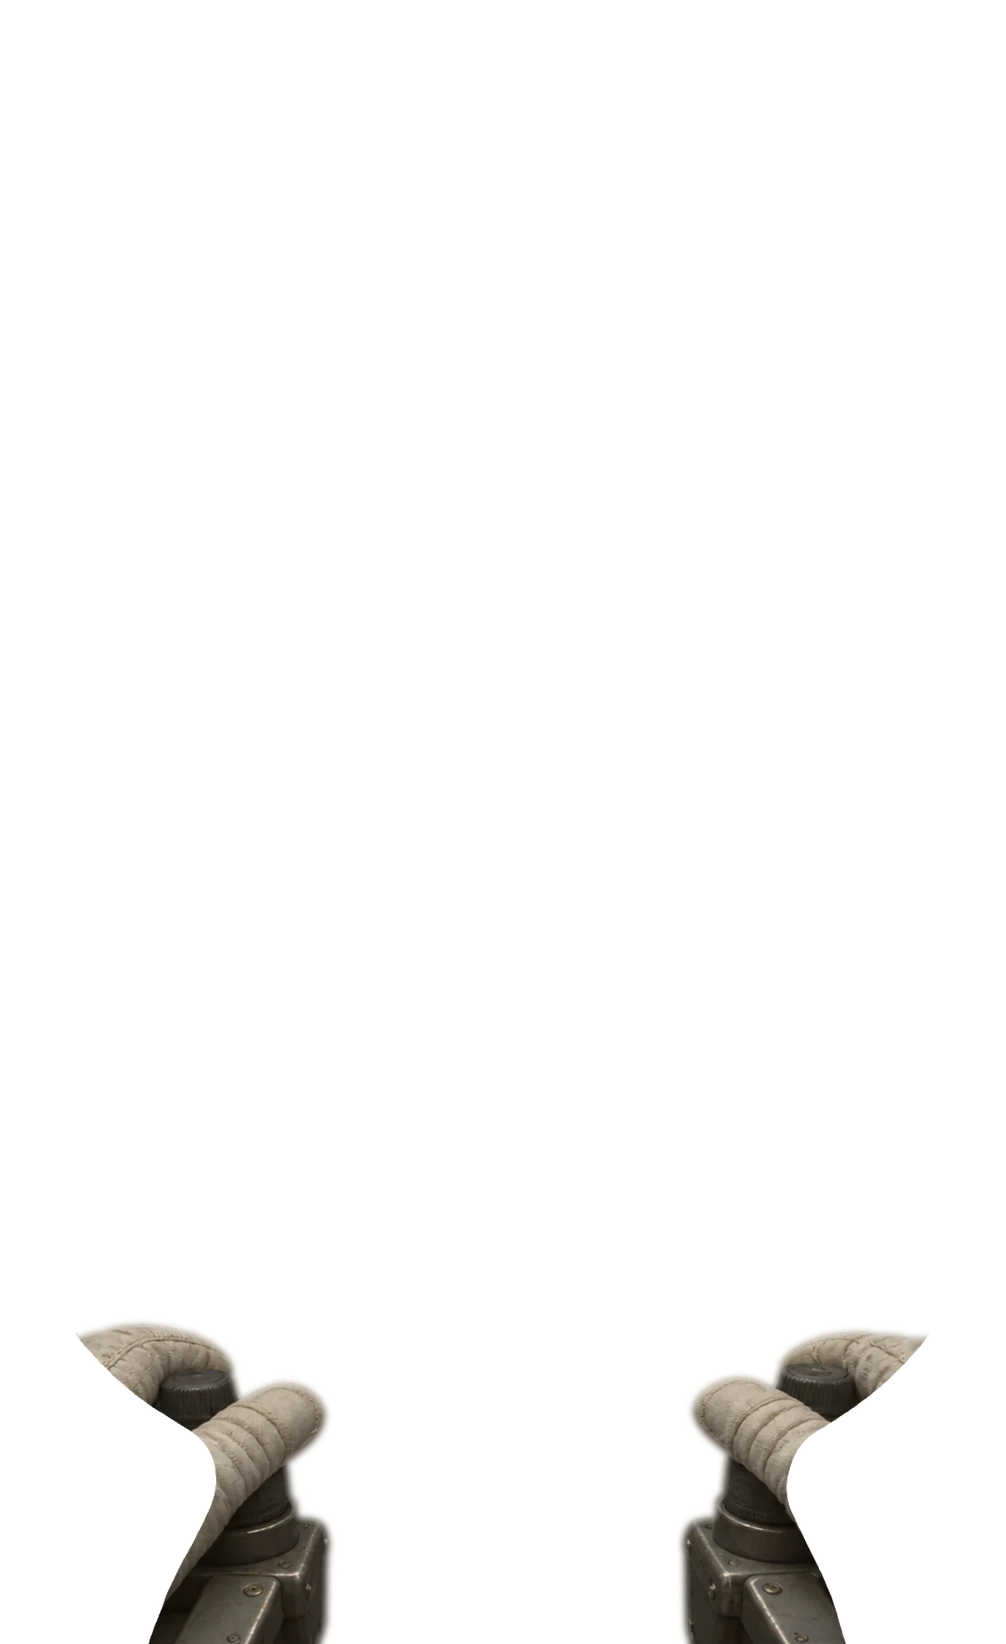
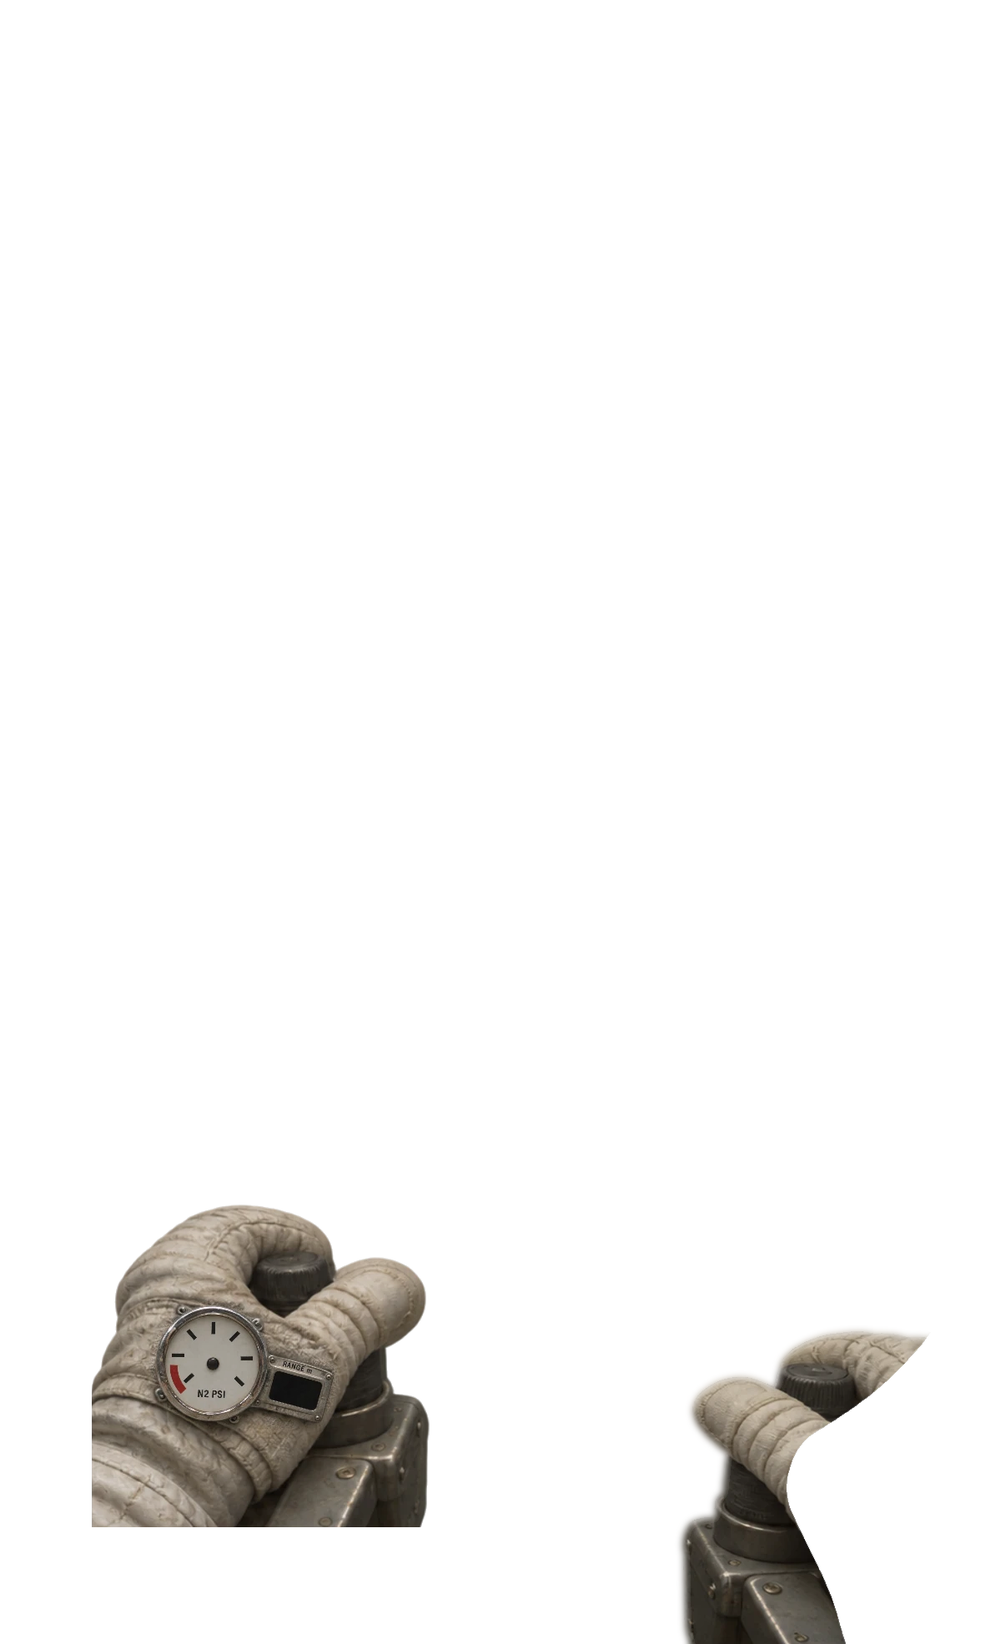
v1.0.33: McCandless's jets fire once for each press (a 0.45 s hiss, one buzz, one shake; 3.5% of the nitrogen), and his nitrogen and range show on a pressure dial and counter strapped on his left glove, drawn into the hands picture, the game turning the needle and the figures (the user: "기관총 소리 난다. 

Changed region(s): [[0.0614, 0.7118, 0.4295, 1.0]]

diff --git a/src/main.js b/src/main.js
@@ -2507,7 +2507,7 @@ ${STORY_MORE[target.id]}` : told) };
       glare.hidden = o <= 0.001;
     }
     if (!course) mmuFlyReset();
-    mmuFlyUi(inHelmet);
+    mmuFlyUi(inHelmet, dt);
   }
   // Columbia coming to dock with Eagle, seen from Eagle's window (rail.dock: from, at the
   // moment they touch, to, its distance far and near in km and its drawn length; the user,
@@ -2554,14 +2554,14 @@ ${STORY_MORE[target.id]}` : told) };
   const MMU_KM_PER_M = 2.8; // the course's km for one true metre: "about 100 m" stands at 280 km
   const MMU_FAR_M = 150;
   const MMU_NEAR_M = 30;
-  const MMU_ACCEL = 6; // km/s gained in each second of a push
+  const MMU_BURST = 5; // km/s gained with each burst (some 2 m/s)
+  const MMU_BURST_FUEL = 0.035; // of full tanks, each burst (28 in all)
   const MMU_TOP = 24; // km/s at most (some 9 m/s)
-  const MMU_FUEL_S = 30; // seconds of pushing in full tanks
   const MMU_SHOOT_S = 2; // the line on its way
   const MMU_PULL_S = 10; // and reeling him in
-  const mmuFly = { on: false, onT: 0, rel: null, vel: [0, 0, 0], fuel: 1, line: null, keys: 0, puffAt: 0, jetAt: 0, thrust: 0, grip: 0, shake: 0, warned: 1 };
+  const mmuFly = { on: false, onT: 0, rel: null, vel: [0, 0, 0], fuel: 1, line: null, keys: 0, puffAt: 0, held: 0, thrust: 0, grip: 0, shake: 0, warned: 1, needle: 1 };
   function mmuFlyReset() {
-    Object.assign(mmuFly, { on: false, rel: null, vel: [0, 0, 0], fuel: 1, line: null, keys: 0, thrust: 0, shake: 0, warned: 1 });
+    Object.assign(mmuFly, { on: false, rel: null, vel: [0, 0, 0], fuel: 1, line: null, keys: 0, held: 0, thrust: 0, shake: 0, warned: 1 });
   }
   function mmuNote(text) {
     let note = document.getElementById('mmuNote');
@@ -2579,7 +2579,11 @@ ${STORY_MORE[target.id]}` : told) };
     if (!cupolaOn) return;
     const hub = here('hubble').position;
     const push = mmuFly.line ? 0 : Math.max(-1, Math.min(1, key + mmuFly.keys));
-    const thrust = mmuFly.fuel > 0 ? push : 0;
+    // One burst for each press (the user, 2026-11-20: "계속 누르고 있으니까, 기관총 소리 난다. 한 번에
+    // 한 번씩만 가동"): the jets fire as a key goes down and not again till it is let go.
+    const pressed = Math.sign(push);
+    const thrust = mmuFly.fuel > 0 && pressed && pressed !== mmuFly.held ? pressed : 0;
+    mmuFly.held = pressed;
     if (!mmuFly.on && thrust) {
       mmuFly.on = true;
       mmuFly.onT = courseTime;
@@ -2588,27 +2592,22 @@ ${STORY_MORE[target.id]}` : told) };
     }
     if (!mmuFly.on) return;
     if (thrust) {
-      // The way he looks, the head's turn in it (cupolaFloat); the head stays turned while he pushes.
+      // The way he looks, the head's turn in it (cupolaFloat).
       const ahead = forward(state.orientation);
-      mmuFly.vel = mmuFly.vel.map((v, i) => v + ahead[i] * thrust * MMU_ACCEL * dt);
+      mmuFly.vel = mmuFly.vel.map((v, i) => v + ahead[i] * thrust * MMU_BURST);
       const speed = Math.hypot(...mmuFly.vel);
       if (speed > MMU_TOP) mmuFly.vel = mmuFly.vel.map((v) => (v * MMU_TOP) / speed);
-      mmuFly.fuel = Math.max(0, mmuFly.fuel - (Math.abs(thrust) * dt) / MMU_FUEL_S);
+      mmuFly.fuel = Math.max(0, mmuFly.fuel - MMU_BURST_FUEL);
       headTurn.at = performance.now();
-      const now = performance.now();
-      if (now - mmuFly.jetAt > 140) {
-        mmuFly.jetAt = now;
-        sound.cue(thrust > 0 ? 'jet' : 'jetBack');
-        // (A phone that can, buzzes with each burst; iPhone browsers cannot.)
-        try { navigator.vibrate?.(22); } catch { /* no buzzing here */ }
-      }
-      if (now - mmuFly.puffAt > 380) {
-        mmuFly.puffAt = now;
-        mmuPuff(thrust > 0 ? 'back' : 'front');
-      }
-    } else if (mmuFly.thrust) sound.cue('jetEnd');
-    mmuFly.thrust = thrust;
-    mmuFly.shake = thrust ? 1 : Math.max(0, mmuFly.shake - dt * 5);
+      sound.cue(thrust > 0 ? 'jet' : 'jetBack');
+      // (A phone that can, buzzes with the burst; iPhone browsers cannot.)
+      try { navigator.vibrate?.(45); } catch { /* no buzzing here */ }
+      mmuPuff(thrust > 0 ? 'back' : 'front');
+      mmuFly.shake = 1;
+    }
+    // The gloves press the handle while the key is held; the view shakes with the burst and settles.
+    mmuFly.thrust = mmuFly.line ? 0 : pressed;
+    mmuFly.shake = Math.max(0, mmuFly.shake - dt * 2.4);
     // Low on nitrogen: three beeps at a quarter, and again at a tenth.
     for (const mark of [0.25, 0.1]) {
       if (mmuFly.fuel < mark && mmuFly.warned > mark) { mmuFly.warned = mark; sound.cue('lowFuel'); }
@@ -2682,8 +2681,10 @@ ${STORY_MORE[target.id]}` : told) };
   }
   // The jets' two keys, the gauge on the inside of his left wrist (nitrogen and how far
   // Challenger is), and the line from her bay.
-  const WRIST = { x: 165, y: 1505, w: 270, h: 124, turn: -24 }; // in the hands picture's pixels
-  function mmuFlyUi(inHelmet) {
+  // On the left glove of the hands picture (its pixels, from GPT's check7.json).
+  const DIAL = { x: 255, y: 1635, r: 57 };
+  const COUNTER = { x: 354.5, y: 1667.5, turn: 15, size: 30 };
+  function mmuFlyUi(inHelmet, dt) {
     const show = inHelmet && Boolean(course && courseById(course)?.rail?.mmu);
     let keys = document.getElementById('mmuKeys');
     if (show && !keys) {
@@ -2703,11 +2704,15 @@ ${STORY_MORE[target.id]}` : told) };
     }
     if (keys) keys.hidden = !show;
     if (!show) mmuFly.keys = 0;
-    // The gauge rides with the hands (the same layer and drift).
+    // The gauge rides with the hands (the same layer and drift). It is drawn on the glove
+    // itself (the hands picture, GPT's order 7: a pressure dial strapped on and a counter
+    // beside it; the user's pick "나", "좋 더 진짜스럽게", "위치 안 맞는다"); the game
+    // turns its needle with the nitrogen left (empty at the lower left, in the red; full
+    // at the lower right) and turns the counter's figures to the metres from Challenger.
     const hands = document.getElementById('spacewalkHands');
     let wrist = document.getElementById('mmuWrist');
     if (show && hands && !wrist) {
-      hands.insertAdjacentHTML('afterend', '<div id="mmuWrist" aria-hidden="true" style="position:fixed;inset:0;z-index:5;pointer-events:none"><div class="cuff" style="position:absolute;box-sizing:border-box;border-radius:8%/16%;background:linear-gradient(#262b31,#14181c);border:2px solid #474d55;box-shadow:0 2px 6px rgba(0,0,0,.6);padding:6% 7%;color:#8ff0a4;font-family:ui-monospace,Menlo,Consolas,monospace;font-weight:700"><div class="row" style="display:flex;align-items:center;gap:6%"><span>N₂</span><div style="flex:1;height:0.62em;border:1px solid #5d6670;border-radius:2px;padding:1px"><div class="bar" style="height:100%;background:#8ff0a4"></div></div></div><div class="read" style="margin-top:4%;white-space:nowrap"></div></div></div>');
+      hands.insertAdjacentHTML('afterend', `<div id="mmuWrist" aria-hidden="true" style="position:fixed;inset:0;z-index:5;pointer-events:none"><svg style="position:absolute;overflow:visible"><g class="needle"><path d="M${DIAL.x} ${DIAL.y + 9} L${DIAL.x} ${DIAL.y - DIAL.r * 0.78}" stroke="#141414" stroke-width="4.5" stroke-linecap="round"/><path d="M${DIAL.x} ${DIAL.y - DIAL.r * 0.55} L${DIAL.x} ${DIAL.y - DIAL.r * 0.78}" stroke="#b3202a" stroke-width="4.5" stroke-linecap="round"/></g><circle cx="${DIAL.x}" cy="${DIAL.y}" r="6" fill="#1c1c1c"/><circle cx="${DIAL.x - 1.5}" cy="${DIAL.y - 1.5}" r="2" fill="#8c8c8c"/><text class="range" x="${COUNTER.x}" y="${COUNTER.y}" transform="rotate(${COUNTER.turn} ${COUNTER.x} ${COUNTER.y})" text-anchor="middle" dominant-baseline="central" fill="#efe9da" font-family="'Courier New',monospace" font-weight="700" font-size="${COUNTER.size}" letter-spacing="2"></text></svg></div>`);
       wrist = document.getElementById('mmuWrist');
     }
     if (wrist) {
@@ -2717,23 +2722,21 @@ ${STORY_MORE[target.id]}` : told) };
         const nw = hands.naturalWidth || 1206, nh = hands.naturalHeight || 1971;
         const s0 = Math.max(innerWidth / nw, innerHeight / nh);
         const ox = (innerWidth - nw * s0) * 0.5, oy = (innerHeight - nh * s0) * 0.45;
-        const cuff = wrist.firstElementChild;
-        Object.assign(cuff.style, {
-          left: `${(ox + (WRIST.x - WRIST.w / 2) * s0).toFixed(1)}px`, top: `${(oy + (WRIST.y - WRIST.h / 2) * s0).toFixed(1)}px`,
-          width: `${(WRIST.w * s0).toFixed(1)}px`, height: `${(WRIST.h * s0).toFixed(1)}px`,
-          fontSize: `${Math.max(9, 40 * s0).toFixed(1)}px`, transform: `rotate(${WRIST.turn}deg)`,
-        });
-        const low = mmuFly.fuel < 0.25;
-        const bar = cuff.querySelector('.bar');
-        bar.style.width = `${(mmuFly.fuel * 100).toFixed(1)}%`;
-        bar.style.background = low ? '#ff9a6a' : '#8ff0a4';
-        cuff.style.color = low ? '#ffb38a' : '#8ff0a4';
+        const svgEl = wrist.firstElementChild;
+        if (svgEl.dataset.size !== `${nw}x${nh}x${s0}`) {
+          svgEl.dataset.size = `${nw}x${nh}x${s0}`;
+          svgEl.setAttribute('viewBox', `0 0 ${nw} ${nh}`);
+          Object.assign(svgEl.style, { left: `${ox.toFixed(1)}px`, top: `${oy.toFixed(1)}px`, width: `${(nw * s0).toFixed(1)}px`, height: `${(nh * s0).toFixed(1)}px` });
+        }
+        // The needle eases toward the nitrogen left, as a real one would, a little behind.
+        mmuFly.needle += (mmuFly.fuel - mmuFly.needle) * Math.min(1, dt * 6);
+        const angle = -135 + 270 * mmuFly.needle;
+        svgEl.querySelector('.needle').setAttribute('transform', `rotate(${angle.toFixed(1)} ${DIAL.x} ${DIAL.y})`);
         const hub = here('hubble').position;
-        const metres = Math.round(Math.hypot(...state.position.map((n, i) => n - hub[i])) / MMU_KM_PER_M);
-        const text = `${Math.round(mmuFly.fuel * 100)}% · ${metres}m`;
-        const read = cuff.querySelector('.read');
-        if (read.textContent !== text) read.textContent = text;
-        cuff.style.opacity = low && mmuFly.fuel > 0 ? (0.65 + 0.35 * Math.abs(Math.sin(performance.now() / 260))).toFixed(2) : '1';
+        const metres = Math.min(999, Math.round(Math.hypot(...state.position.map((n, i) => n - hub[i])) / MMU_KM_PER_M));
+        const text = String(metres).padStart(3, '0');
+        const range = svgEl.querySelector('.range');
+        if (range.textContent !== text) range.textContent = text;
       }
     }
     // The line, drawn as a rope (the user, 2026-11-20: "줄을 좀 리얼하게 그리고"): braided,

diff --git a/src/ui/sound.js b/src/ui/sound.js
@@ -481,18 +481,17 @@ export function createSound({ music } = {}) {
       bell(659, 0.9, 0.05);
       bell(988, 1.08, 0.05);
     },
-    // McCandless's jets while a key is held (main.js mmuFly, the user, 2026-11-20: "내가 누를
-    // 때에 칙칙하면서 소리도 나고"): a short burst of hiss every 0.14 s with a soft knock
-    // under it, lower for a push ahead, higher for one back; and a sigh when it is let go.
+    // McCandless's jets, one burst for each press (main.js mmuFly, the user, 2026-11-20:
+    // "칙칙하면서 소리도 나고", then "한 번에 한 번씩만"): a soft knock and a hiss of nitrogen
+    // falling away over 0.45 s, lower for a push ahead, higher for one back.
     jet: () => {
-      noise({ length: 0.13, volume: 0.045, type: 'bandpass', freq: 2300, to: 1700, attack: 0.008 });
-      tone({ freq: 90, to: 60, length: 0.07, volume: 0.02 });
+      noise({ length: 0.45, volume: 0.05, type: 'bandpass', freq: 2300, to: 1200, attack: 0.015 });
+      tone({ freq: 90, to: 55, length: 0.12, volume: 0.028 });
     },
     jetBack: () => {
-      noise({ length: 0.13, volume: 0.04, type: 'bandpass', freq: 3300, to: 2500, attack: 0.008 });
-      tone({ freq: 110, to: 75, length: 0.07, volume: 0.018 });
+      noise({ length: 0.45, volume: 0.045, type: 'bandpass', freq: 3300, to: 1800, attack: 0.015 });
+      tone({ freq: 110, to: 70, length: 0.12, volume: 0.025 });
     },
-    jetEnd: () => noise({ length: 0.5, volume: 0.03, type: 'bandpass', freq: 2600, to: 900, attack: 0.02 }),
     // Challenger's line: shot out with a rising swish, the hook catching with a clack, and
     // the winch humming for the ten seconds he is reeled in.
     lineShoot: () => {

diff --git a/src/core/changes.js b/src/core/changes.js
@@ -11,6 +11,7 @@ import { t } from './i18n.js';
 // carry a `link`, an address written after it that can be pressed (the user, 2026-10-14,
 // of the promo video's line: "쇼츠 주소는? 링크도 올려야지").
 export const CHANGES = [
+  { day: '2026-11-20', text: t('줄 하나 없이 우주 유영에서 추진기는 한 번 누르면 한 번 뿜고, 왼쪽 장갑에 찬 압력계와 거리판으로 질소와 거리를 봅니다.') },
   { day: '2026-11-20', text: t('줄 하나 없이 우주 유영에서 추진기를 뿜으면 소리와 떨림이 나고, 직접 날기 시작하면 시간 제한이 없어집니다.') },
   { day: '2026-11-20', text: t('줄 하나 없이 우주 유영에서 직접 날 수 있습니다. 150m를 넘거나 질소가 떨어지면 챌린저가 줄로 끌어당깁니다.') },
   { day: '2026-11-20', text: t('아폴로 11호의 길에서 사령선 컬럼비아가 이글에 다가와 도킹하는 모습을 봅니다.') },

diff --git a/docs/Space-Oddity-상세기획서.md b/docs/Space-Oddity-상세기획서.md
@@ -662,6 +662,7 @@ v0.1.37, 눈으로 보지 못했던 것을 다시 찍어 보고 고친 것(`.pla
 - 2026-11-02에 우주멍 화면 왼쪽 위에 제목 로고를 작게(92px 폭) 넣었다(v0.4.61). 사용자 말: "우주멍 모드에서는 화면 상단 왼쪽에 조그맣게 로고 넣어줘".
 - 2026-11-18에 우주멍 시계, 잠들기 타이머, 배경화면 저장을 넣었다(v1.0.8). 우주멍 시계는 설정에서 켜며, 우주멍 동안 화면 위쪽에 시각과 날짜를 띄우고 화면 꺼짐을 막는다(Wake Lock). 시계는 1분마다 12픽셀 안에서 자리를 옮긴다. 잠들기는 배경 음악 칸의 단추로 15, 30, 60분을 고르며, 시간이 되면 음악과 화면이 60초에 걸쳐 잦아들고 어두워진다(검은 막 92%). 화면을 만지면 돌아온다. 배경화면은 사진 모드의 단추로, 보통 사진이 화면의 1.6배까지만 그리는 것과 달리 기기 해상도(3배까지, 한 변 4096픽셀까지)로 한 장을 그린다. "시계 자리 보기"는 잠금화면 시계가 덮는 자리를 점선으로 보인다. 시계 글씨는 세 모양(가는 글씨, 할머니 손글씨, 별빛)을 나란히 보인 뒤 사용자가 고른 할머니 수첩 손글씨(크림색)다. 코드는 GPT(Codex)가 짰고 번역과 검토는 Claude가 했다. 사용자 말: "5,6,7 해보자", "코딩은 gpt 시켜도 되지?", "나".
 - 2026-11-18에 우주멍 시계를 화면 왼쪽 위, 제목 바로 아래로 옮기고 시각과 날짜 줄을 각각 제목 폭(92픽셀)에 맞춰 글씨 크기를 정하게 했다. 우주멍 동안 우주멍 단추 옆에 배경 음악 켜기/끄기 단추를 둔다(v1.0.9). 사용자 말: "시간과 날짜를 왼쪽 상단, 제목 바로 아래로 옮기고, 폰트도 적당히 줄여서 폭을 맞춰", "우주멍에서는 배경음악 ON/OFF 버튼을 우주멍 버튼 옆에 그려줘". 날짜는 줄임 꼴로 쓴다: "11월 18일 (수)", "Wed, Nov 18", "11月18日(水)", "11月18日周三"(v1.0.10, 사용자 말: "줄임말로 쓰지").
+- 2026-11-20에 매캔들리스 코스의 추진기를 한 번 누르면 한 번만 뿜게 했다(v1.0.33). 누르고 있어도 다시 뿜지 않으며, 한 번에 5km/s(실제 약 2m/s)만큼 빨라지고 질소 3.5%를 쓴다(가득 차면 28번). 소리는 0.45초짜리 "치익" 한 번(앞으로는 낮게, 뒤로는 높게), 진동과 화면 떨림도 한 번씩이며 떨림은 0.4초에 잦아든다. 장갑은 누르는 동안 손잡이를 쥔다. 손목 게이지는 GPT에게 다시 그려 받은 왼쪽 장갑 그림에 붙어 있다(assets/codex/mmu/order7.md, 사용자가 고른 나안: 크롬 테두리의 바늘 압력계 "N2 PSI"와 "RANGE m" 숫자판을 장갑에 끈으로 찬 모습). 게임은 바늘(질소 0%는 왼쪽 아래 빨간 구역, 100%는 오른쪽 아래, 실제 바늘처럼 조금 늦게 따라감)과 숫자판의 세 자리 거리만 그린다. 전에는 화면에 녹색 글자판이 떠 있어 손목에 찬 것처럼 보이지 않았다. 사용자 말: "업다운 버튼 계속 누르고 있으니까, 기관총 소리 난다. 한 번에 한 번씩만 가동", "좀 더 진짜스럽게", "위치 안 맞는다", "나.", "만들어".
 - 2026-11-20에 매캔들리스 코스의 직접 날기에 손맛을 넣었다(v1.0.32). 단추를 누르는 동안 0.14초마다 "칙" 소리(앞으로는 낮게, 뒤로는 높게, 아래에 작은 쿵)가 이어지고 떼면 "치익" 잦아든다. 화면과 헬멧 테두리가 잘게 떨리고, 진동이 되는 휴대전화(안드로이드)는 떤다(아이폰 사파리는 진동 기능이 없다). 장갑은 앞으로 밀 때 손잡이 쪽으로 7픽셀 눌리고 뒤로 당길 때 올라오며 1.8% 커진다. 처음 뿜은 뒤로는 몸이 저절로 돌고 기울던 것, 9초마다 저절로 뿜던 것, 헬멧 테두리의 흔들림이 1.5초에 걸쳐 멈춘다. 줄은 꼰 밧줄로 그린다: 챌린저 쪽은 가늘고 그 쪽은 굵으며(1.2 → 8픽셀), 날아올 때는 출렁이며 휘고 끝에 갈고리가 달리며, 걸린 뒤에는 팽팽히 펴져 끌려온다. 소리: 줄 쏘기 "쉬익", 걸림 "철컥", 감는 동안 10초의 낮은 "위잉", 질소 25%와 10%에서 짧은 경고음 셋(미리 듣기 파일 assets/playtest/mmu-sounds-preview.wav, 가장 큰 소리 0.06). 단추는 다른 우주멍 단추처럼 금빛 선 화살표로 바꾸고 자막과 겹치지 않게 올렸다. 처음 뿜은 뒤로는 340초가 지나도 처음 장면으로 돌아가지 않는다. 사용자 말: "내가 누를 때에 칙칙하면서 소리도 나고, 진동도 느껴지고, 손가락도 움직이고 해야지", "한 번이라도 전/후 버튼 누르면, 그때부터는 핸드폰이 혼자서 움직이는건 stop", "줄을 좀 리얼하게 그리고", "소리도 좀", "앞으로 / 뒤로 아이콘 좀 예쁘게", "가,로 하고", "유저가 수동으로 움직이기 시작하면, 그 시간부턴 시간 제한 없애줘", "개발 시작해".
 - 2026-11-20에 두 가지를 넣었다(v1.0.31). (1) "줄 하나 없이 우주 유영"을 헬멧 안에서 직접 난다. 0초부터 왼쪽의 "앞으로" "뒤로" 단추(컴퓨터는 W/S)를 누르는 동안 보는 쪽으로 질소를 뿜고(화면을 끌어 고개를 돌린 채 누르면 그쪽으로), 한 번 밀면 계속 미끄러진다(초당 6km/s씩, 최고 24km/s, 게임 속 2.8km가 실제 1m). 질소는 계속 뿜으면 30초 만에 바닥나며, 왼쪽 장갑 위 손목의 게이지가 질소 막대와 "% · 챌린저까지 m"를 보인다(25% 아래는 주황빛으로 깜박임). 150m를 넘거나 질소가 떨어지면 챌린저가 빛나는 줄을 쏘아(2초) 30m까지 끌어당기고(10초) 질소를 다시 채운다. 12m 안으로는 들어가지 않는다(닿아 멈춤). 한 번도 뿜지 않으면 코스는 전처럼 흐른다. 헬멧 안에서는 이동 키가 코스를 끝내지 않는다. 실제 1984년에는 줄을 쏘는 장치가 없었고 챌린저가 그를 데리러 가도록 준비되어 있었다고 사용자에게 말했으나, 사용자는 줄을 골랐다. (2) "아폴로 11호의 길" 724 → 748초에, 이글의 세모난 창으로 사령선 컬럼비아가 다가와 도킹한다. 컬럼비아는 3D 모형이다(`src/render/columbia3d.js`, 코드로 그림: 원뿔 사령선과 창, 도킹 탐침, 기계선과 방열판, UNITED STATES, 추진기 네 묶음, 엔진, 고이득 안테나). 600km에서 15km(게임 속)까지 천천히 다가오며 코를 창 쪽으로 돌리고, 746초에 게임의 도킹 소리와 살짝 흔들림, 728초에 자막 "컬럼비아가 다가옵니다. 콜린스가 혼자 달을 돌며 기다리고 있었습니다." 모형은 craft.js 의 setFloatModel 로 아무 자리에나 놓고, 챌린저와 그림자 지도를 함께 쓴다. 코드 약 13KB. 챌린저 오른쪽 날개의 "NASA / Challenger" 글씨도 몸통 쪽으로 0.6m 옮겼다. 사용자 말: "지금 상태에서 우주 유영을 자기가 컨트롤 할 수 있게 해보자. 너무 멀어지거나, 연료를 다 쓰면, 챌린저에서 줄을 발사해서 끌어당기는걸로 하고. 그럼 손목 안 쪽에 연료 게이지 보여주고", "코스 안 조종", "챌린저가 로프를 쏴서 끌어당기기", "150m", "아폴로 귀환 시에 사령선이 도킹하는걸 게임에 넣는건 어때", "(가)로 해", "글자를 왼쪽으로 살짝 밀어", "다 개발해".
 - 2026-11-20에 매캔들리스 코스의 헬멧 테두리 그림에서 네 귀퉁이의 베이지색 천을 짙은 회색으로 바꿨다(v1.0.30). 밝고 채도가 낮은 화소만 골라 밝기의 0.32배로 낮추고, 창 둘레 60픽셀 안의 금빛 테두리는 건드리지 않아 천의 주름과 바늘땀이 남는다. 아래쪽만 바꾼 안과 견주어 사용자가 네 귀퉁이 모두를 골랐다. 우주멍 아래 줄의 소리와 음악 단추 자리도 맞바꿔, 이제 달 바로 옆이 음악, 그 옆이 소리다. 사용자 말: "이 부분을 짙은회색으로 해", "소리 / 음악 아이콘 위치 바꿔", "오른쪽으로 만들어".

diff --git a/바뀐-것들.md b/바뀐-것들.md
@@ -2,12 +2,13 @@
 
 게임 설정의 "바뀐 것들" 쪽과 같은 내용이다. 플레이어가 화면에서 보거나 듣는 변화만 한 줄씩 적는다.
 
-만들기 시작한 날은 2026년 9월 30일이고, 지금까지 409줄이다. 어떻게 만들었는지는 [상세기획서](docs/Space-Oddity-상세기획서.md)에 날짜별로 있다.
+만들기 시작한 날은 2026년 9월 30일이고, 지금까지 410줄이다. 어떻게 만들었는지는 [상세기획서](docs/Space-Oddity-상세기획서.md)에 날짜별로 있다.
 
 이 파일은 직접 고치지 않는다. `src/core/changes.js` 에 한 줄을 넣고 `node build/changes-doc.mjs` 를 돌리면 다시 만들어진다.
 
 ## 2026-11-20
 
+- 줄 하나 없이 우주 유영에서 추진기는 한 번 누르면 한 번 뿜고, 왼쪽 장갑에 찬 압력계와 거리판으로 질소와 거리를 봅니다.
 - 줄 하나 없이 우주 유영에서 추진기를 뿜으면 소리와 떨림이 나고, 직접 날기 시작하면 시간 제한이 없어집니다.
 - 줄 하나 없이 우주 유영에서 직접 날 수 있습니다. 150m를 넘거나 질소가 떨어지면 챌린저가 줄로 끌어당깁니다.
 - 아폴로 11호의 길에서 사령선 컬럼비아가 이글에 다가와 도킹하는 모습을 봅니다.
